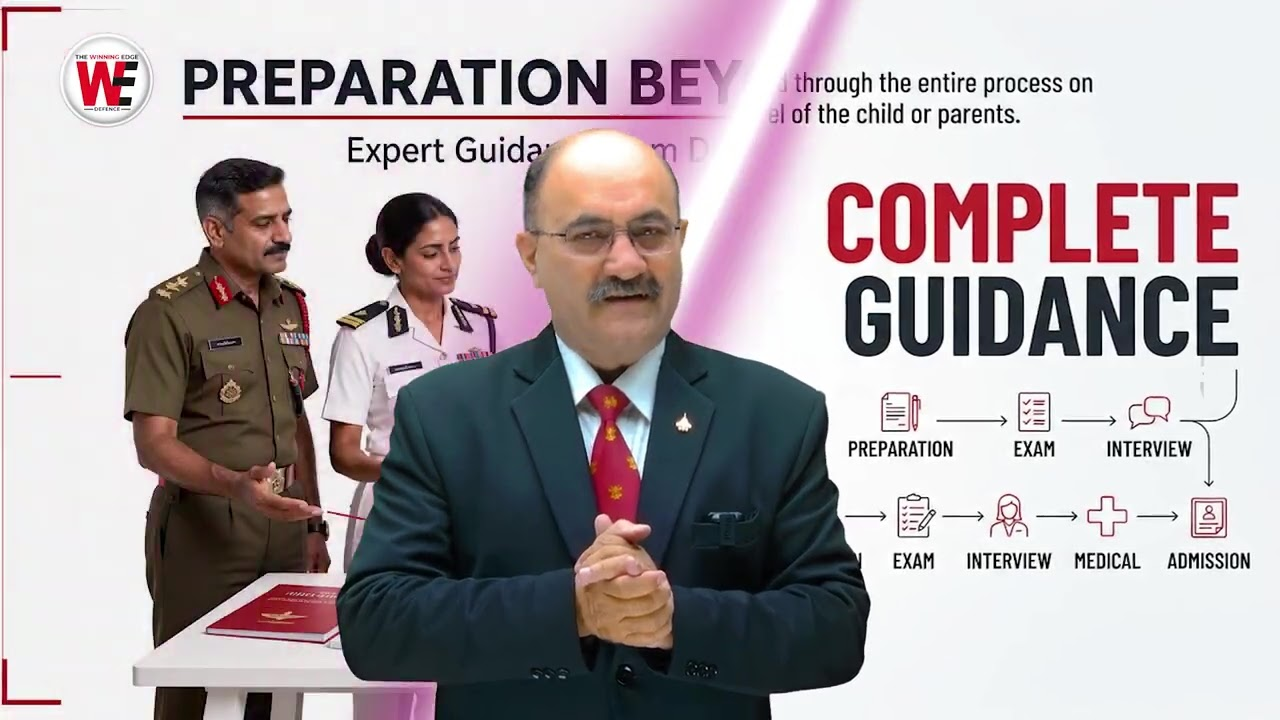
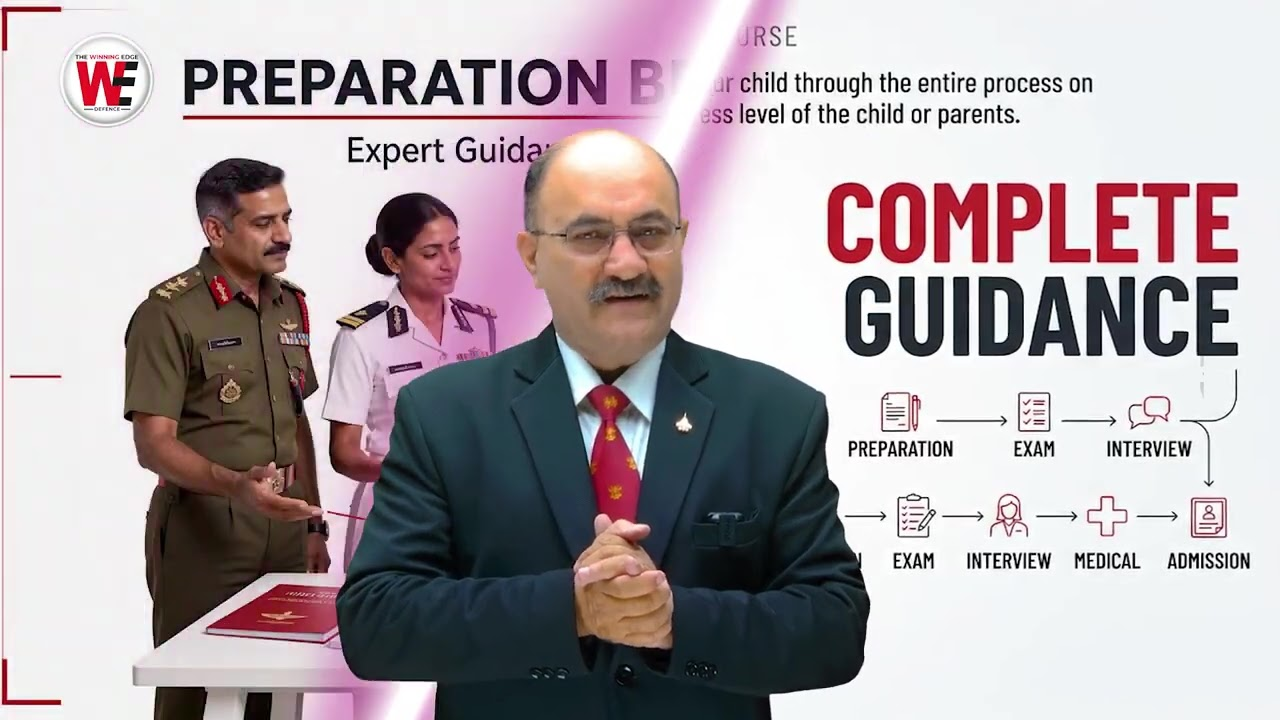
Point the Why WEDA video at youtu.be/BDSPUf4ycBo
Same talk as the one it replaces - "Why Every Parent Should Consider
Sainik School & RMS for Their Child's Overall Development!" - but the
upload the academy asked for. The card copy and the link's label still
describe it, so only the URL, the thumbnail and the README change.

assets/video-thumb.jpg is that upload's own 1280x720 frame, 130 KB,
self-hosted as before: nothing is fetched from YouTube until a visitor
clicks the card.

Checked locally: the thumbnail loads and the click swaps in the player
and plays BDSPUf4ycBo in place.

diff --git a/index.html b/index.html
@@ -876,7 +876,7 @@ const WEDA = {
 
   // ---- Video ---------------------------------------------------
   // Plays on the page; nothing loads from YouTube until it is clicked.
-  youtubeUrl:   "https://www.youtube.com/watch?v=3IAc6fkeSpc",
+  youtubeUrl:   "https://youtu.be/BDSPUf4ycBo",
 
   // ---- Social --------------------------------------------------
   youtube:   "https://www.youtube.com/@TheWinningEdgeDefence",

diff --git a/README.md b/README.md
@@ -36,7 +36,7 @@ whatsapp:     "917417656633",          // country code, no "+", no spaces
 whatsappShow: "+91 74176 56633",
 phone:        "+917417920356",
 phoneDisplay: "+91 74179 20356",
-youtubeUrl:   "https://www.youtube.com/watch?v=3IAc6fkeSpc",
+youtubeUrl:   "https://youtu.be/BDSPUf4ycBo",
 crmFormUrl:   "https://crm.thewinningedge.co.in/form.html",
 privacyUrl:   "privacy.html",  termsUrl: "terms.html",  refundUrl: "refund.html",
 waMessages:   { admission: "..." }     // pre-fills the footer WhatsApp chat
